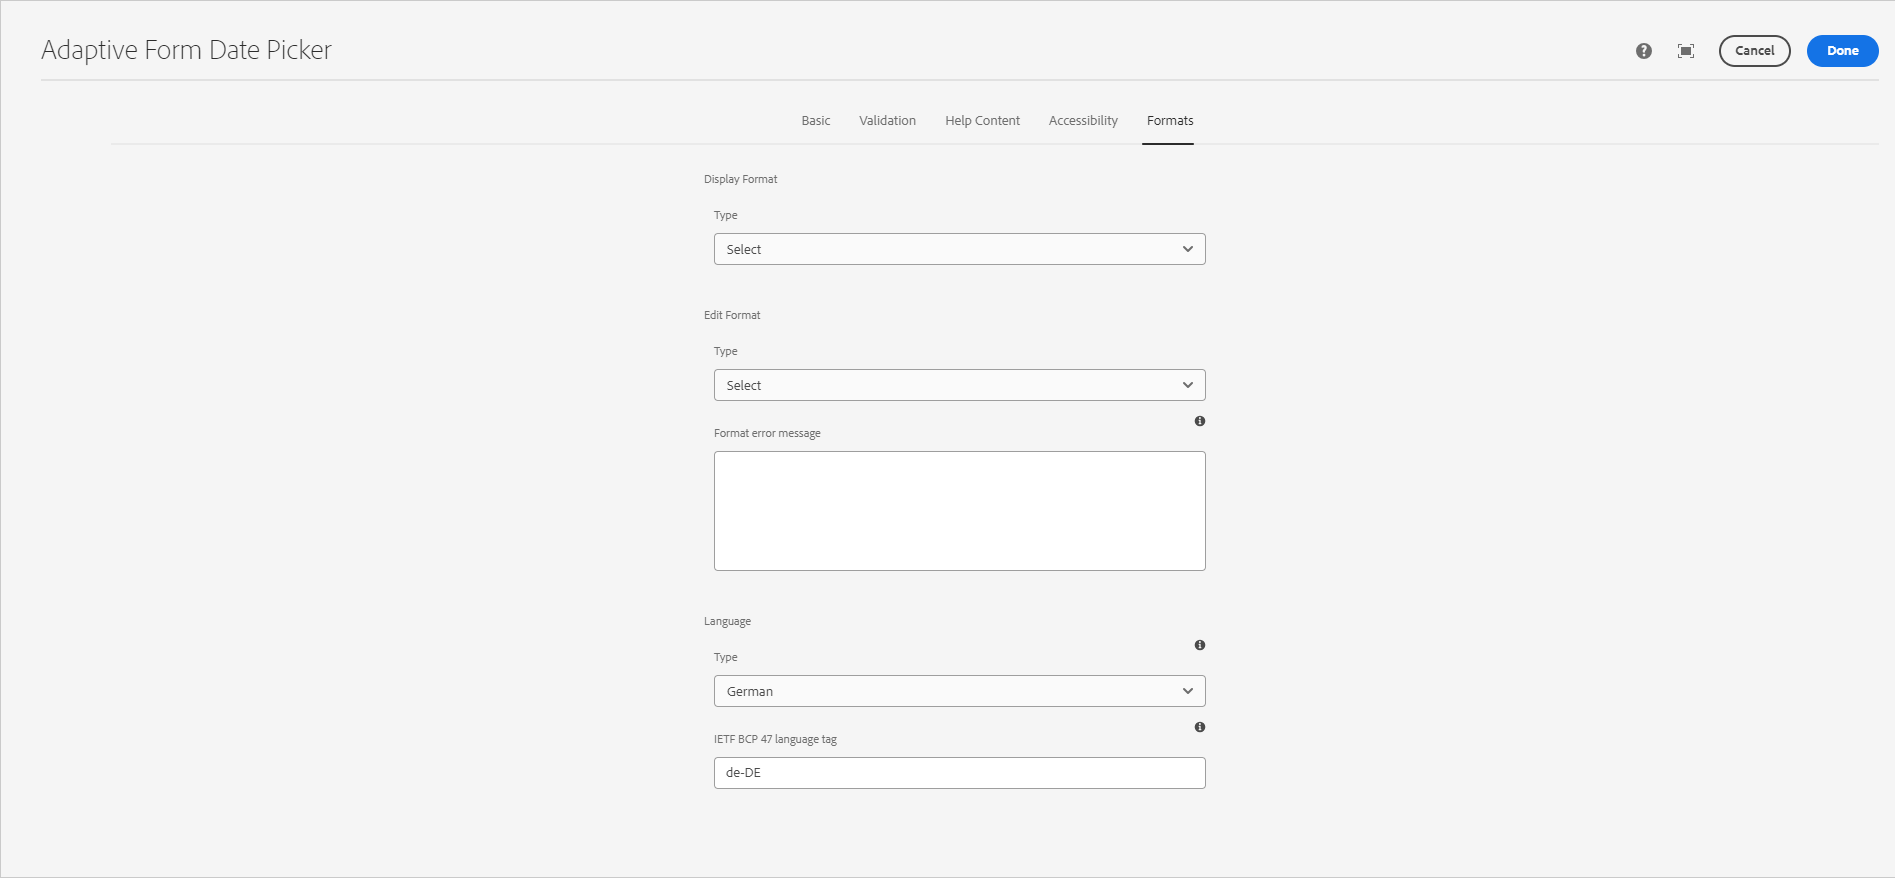
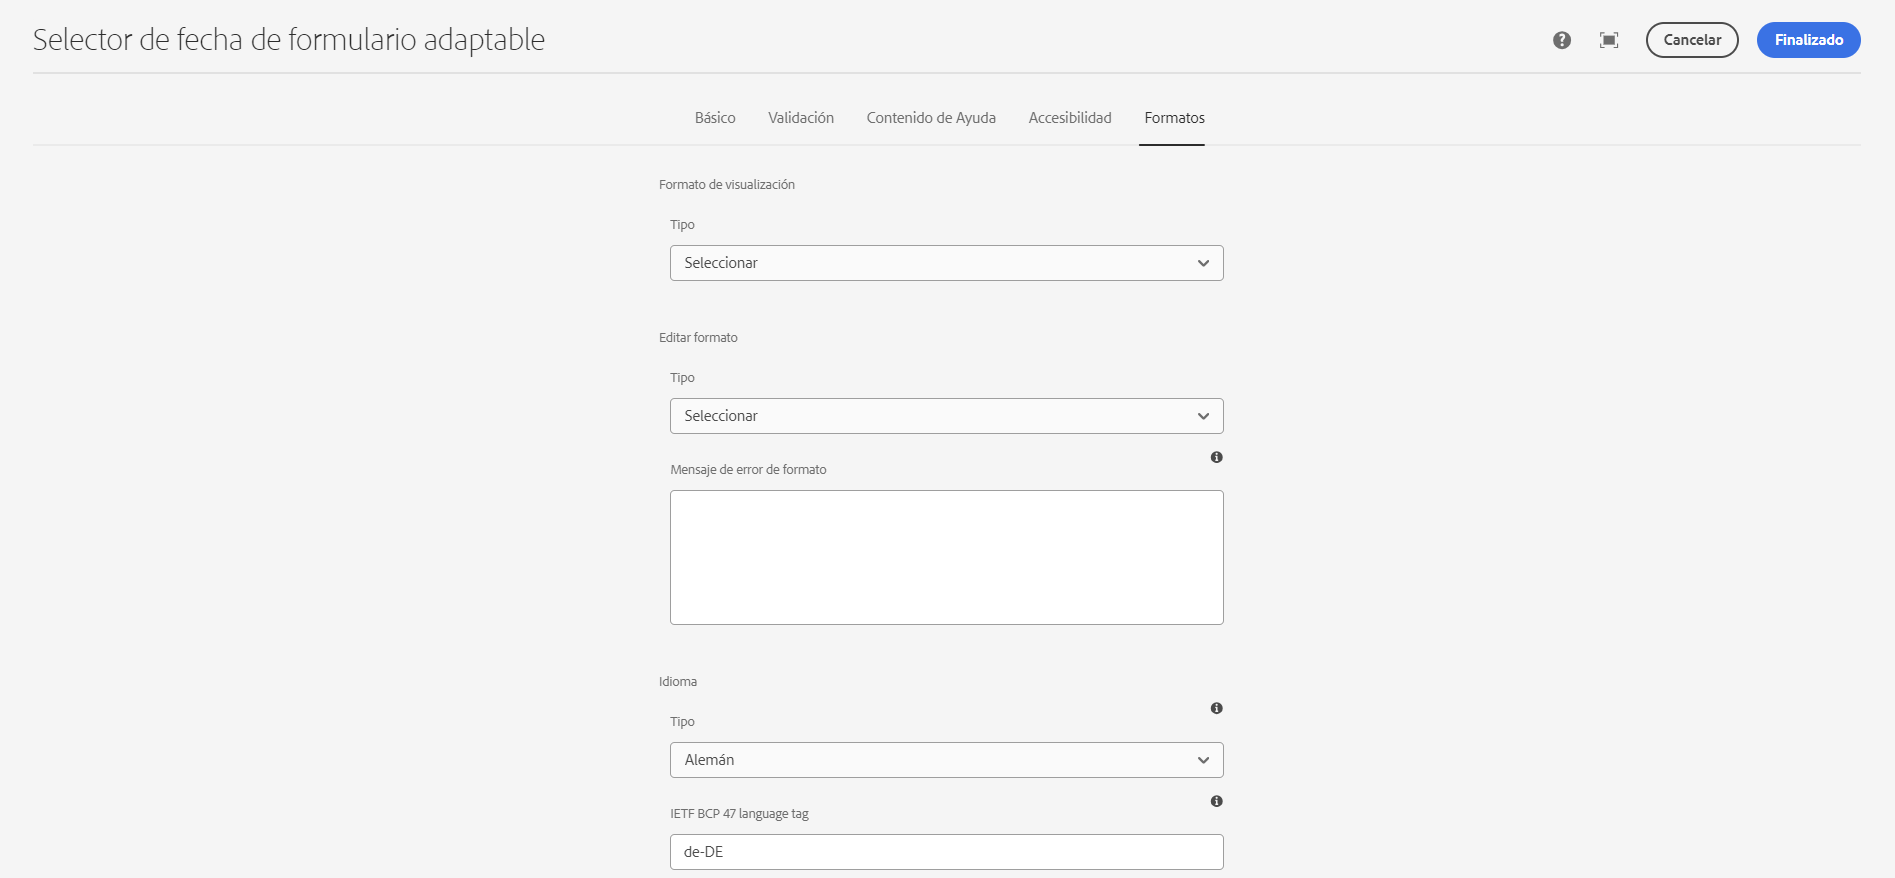
Updated by task 'AUTO_HANDOFF_1717677511873'  Changes for core/source commit https://git.corp.adobe.com/AdobeDocs/experience-manager-core-components.en/commit/b6ceef13539e7d2b3322df5a0b6369d114ae15b9

diff --git a/help/adaptive-forms/components/numeric-box.md b/help/adaptive-forms/components/numeric-box.md
@@ -4,15 +4,15 @@ description: Uso o personalización del componente principal de entrada de núme
 role: Architect, Developer, Admin, User
 exl-id: 75604ecf-1ec5-4e97-b934-d6ed49726147
 source-git-commit: b4a66a407e92398a98441c65ab588b9720777dfa
-workflow-type: tm+mt
+workflow-type: ht
 source-wordcount: '2283'
-ht-degree: 93%
+ht-degree: 100%
 
 ---
 
 # Componente Cuadro numérico{#number-input-adaptive-forms-core-component}
 
-Un componente Cuadro numérico en un formulario adaptable es un tipo de campo de formulario que permite a los usuarios introducir valores numéricos. El componente se suele representar mediante un campo de texto con una flecha hacia arriba y hacia abajo para incrementar y reducir el número.
+Un componente de Cuadro numérico de un formulario adaptable es un tipo de campo de formulario que permite a los usuarios introducir valores numéricos. El componente se suele representar mediante un campo de texto con una flecha hacia arriba y hacia abajo para incrementar y reducir el número.
 
 También se puede utilizar con atributos como mín., máx., paso, valor, etc. Estos atributos se pueden utilizar para establecer los valores mínimo y máximo permitidos en el campo, el intervalo de paso para incrementar o reducir el número y el valor predeterminado del campo.
 
@@ -127,20 +127,20 @@ Puede personalizar fácilmente la experiencia de entrada de números para los vi
 ![Pestaña Accesibilidad](/help/adaptive-forms/assets/numberinput_formattab.png)
 
 - **Formato de visualización**: esta opción le permite seleccionar la opción de diferentes formatos numéricos enteros para su visualización. Cuando el usuario selecciona cualquier opción del menú desplegable **Tipo**, la variable **Formato** aparece en el panel. Puede elegir un formato específico en el que se muestren los números al usuario.
-- **Idioma** : Esta función se utiliza para dar formato al campo específico. Cuando un usuario selecciona cualquier opción de idioma del **Tipo** menú desplegable, la variable **Etiqueta de idioma IETF BCP 47** opción aparece en el panel. Puede elegir el idioma del formato del campo al traducir un formulario adaptable a un idioma específico.
+- **Idioma**: esta función se utiliza para dar formato al campo específico. Cuando un usuario selecciona cualquier opción de idioma del menú desplegable **Tipo**, aparece la opción **Etiqueta de idioma IETF BCP 47** en el panel. Puede elegir el idioma del formato del campo al traducir un formulario adaptable a un idioma específico.
 
-El conjunto de idiomas no está visible de forma predeterminada, pero los usuarios pueden introducir un idioma personalizado **Etiqueta de idioma IETF BCP 47** actualizando la directiva de plantilla:
+El conjunto de idiomas no está visible de forma predeterminada, pero los usuarios pueden introducir una **Etiqueta de idioma IETF BCP 47** personalizada actualizando la directiva de plantilla:
 
 1. Abra la plantilla correspondiente asociada a un formulario adaptable en el editor de plantillas.
 2. Seleccione la política existente como `numberinput-default-policy` en el menú desplegable.
 
-   ![Política de plantilla del selector de fechas](/help/adaptive-forms/assets/numberinput-template-policy.png)
+   ![Política de plantilla del selector de fecha](/help/adaptive-forms/assets/numberinput-template-policy.png)
 
 3. Haga clic en **Listo**.
 
    >[!NOTE]
    >
-   > Para obtener más información sobre cómo traducir un formulario adaptable a una configuración regional específica, consulte [haga clic aquí](https://experienceleague.adobe.com/en/docs/experience-manager-cloud-service/content/forms/adaptive-forms-authoring/authoring-adaptive-forms-core-components/create-an-adaptive-form-on-forms-cs/supporting-new-language-localization-core-components).
+   > Para obtener más información sobre cómo traducir un formulario adaptable a una configuración regional específica, [haga clic aquí](https://experienceleague.adobe.com/es/docs/experience-manager-cloud-service/content/forms/adaptive-forms-authoring/authoring-adaptive-forms-core-components/create-an-adaptive-form-on-forms-cs/supporting-new-language-localization-core-components).
 
 
 ## Cuadro de diálogo Diseño {#design-dialog}

diff --git a/help/adaptive-forms/components/date-picker.md b/help/adaptive-forms/components/date-picker.md
@@ -4,9 +4,9 @@ description: Uso o personalización del componente principal de selector de fech
 role: Architect, Developer, Admin, User
 exl-id: aa9402de-ca57-4c19-8d36-2dd0a78d6806
 source-git-commit: b4a66a407e92398a98441c65ab588b9720777dfa
-workflow-type: tm+mt
+workflow-type: ht
 source-wordcount: '2299'
-ht-degree: 93%
+ht-degree: 100%
 
 ---
 
@@ -131,21 +131,21 @@ Puede personalizar fácilmente la experiencia del selector de fecha para los vis
 - **Formato de visualización**: representa el formato de fecha que se muestra al usuario. La opción **Tipo** permite al usuario seleccionar el formato de fecha. También puede personalizar el formato de fecha utilizando la opción **Personalizado** en el menú desplegable **Tipo**.
 
 - **Editar formato**: representa un formato de fecha en el que el usuario puede editar la fecha. La opción **Tipo** permite seleccionar el formato de fecha. También puede personalizar el formato de fecha utilizando la opción **Personalizado** en el menú desplegable **Tipo**.
-- **Mensaje de error de formato** : Esta opción le permite introducir el mensaje mostrado en la pantalla cuando la fecha introducida no tiene el formato correcto.
-- **Idioma** : Esta función se utiliza para dar formato al campo específico. Cuando un usuario selecciona cualquier opción de idioma del **Tipo** menú desplegable, la variable **Etiqueta de idioma IETF BCP 47** opción aparece en el panel. Puede elegir el idioma del formato del campo al traducir un formulario adaptable a un idioma específico.
+- **Mensaje de error de formato**: esta opción le permite introducir el mensaje mostrado en la pantalla cuando la fecha introducida no tiene el formato correcto.
+- **Idioma**: esta función se utiliza para dar formato al campo específico. Cuando un usuario selecciona cualquier opción de idioma del menú desplegable **Tipo**, la opción **Etiqueta de idioma IETF BCP 47** aparece en el panel. Puede elegir el idioma del formato del campo al traducir un formulario adaptable a un idioma específico.
 
-El conjunto de idiomas no está visible de forma predeterminada, pero los usuarios pueden introducir un idioma personalizado **Etiqueta de idioma IETF BCP 47** actualizando la directiva de plantilla:
+El conjunto de idiomas no está visible de forma predeterminada, pero los usuarios pueden introducir una **Etiqueta de idioma IETF BCP 47** actualizando la directiva de plantilla:
 
 1. Abra la plantilla correspondiente asociada a un formulario adaptable en el editor de plantillas.
 2. Seleccione la política existente como `datepicker-default-policy` en el menú desplegable.
 
-   ![Política de plantilla del selector de fechas](/help/adaptive-forms/assets/date-picker-template-policy.png)
+   ![Política de plantilla del selector de fecha](/help/adaptive-forms/assets/date-picker-template-policy.png)
 
 3. Haga clic en **Listo**.
 
    >[!NOTE]
    >
-   > Para obtener más información sobre cómo traducir un formulario adaptable a una configuración regional específica, consulte [haga clic aquí](https://experienceleague.adobe.com/en/docs/experience-manager-cloud-service/content/forms/adaptive-forms-authoring/authoring-adaptive-forms-core-components/create-an-adaptive-form-on-forms-cs/supporting-new-language-localization-core-components).
+   > Para obtener más información sobre cómo traducir un formulario adaptable a una configuración regional específica, [haga clic aquí](https://experienceleague.adobe.com/es/docs/experience-manager-cloud-service/content/forms/adaptive-forms-authoring/authoring-adaptive-forms-core-components/create-an-adaptive-form-on-forms-cs/supporting-new-language-localization-core-components).
 
 ## Cuadro de diálogo Diseño {#design-dialog}
 
